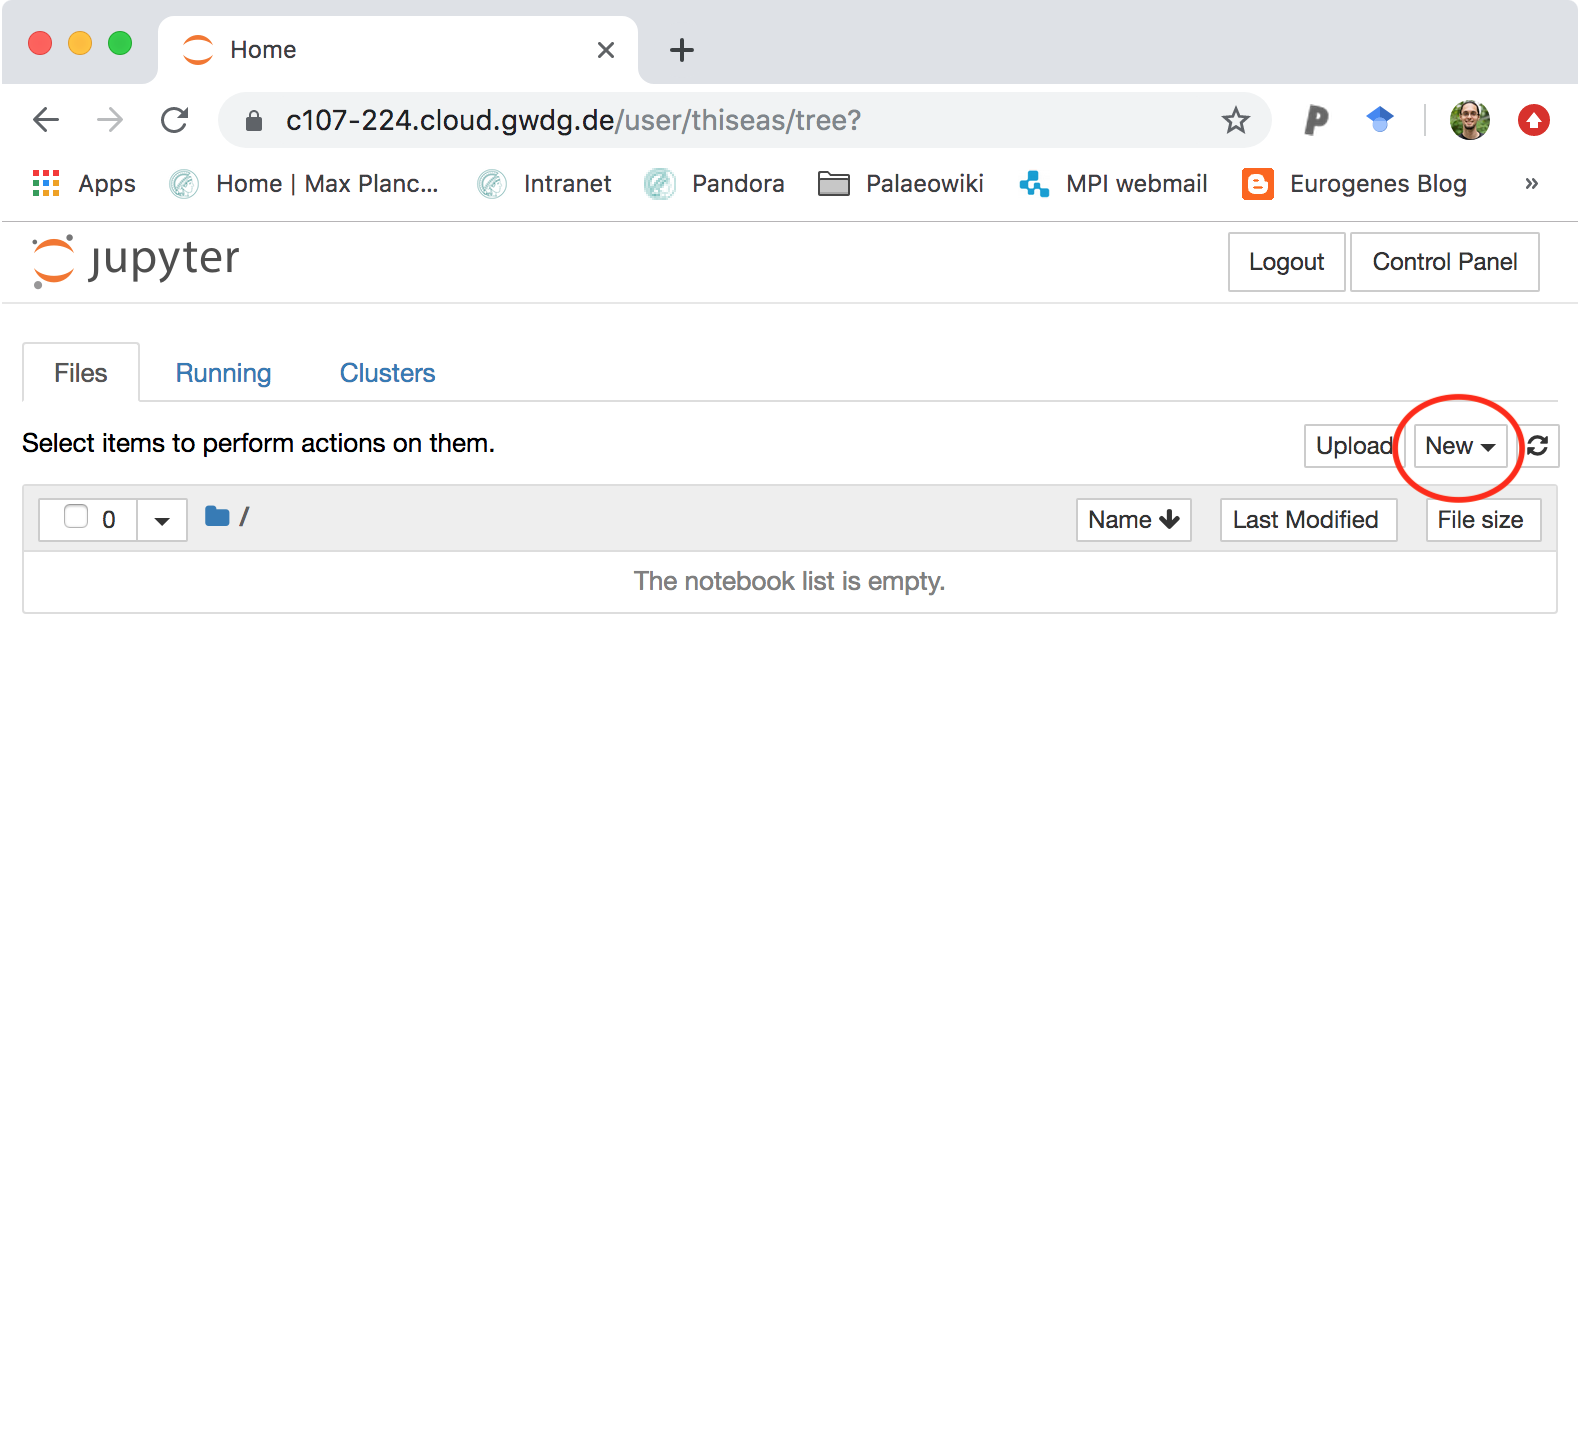
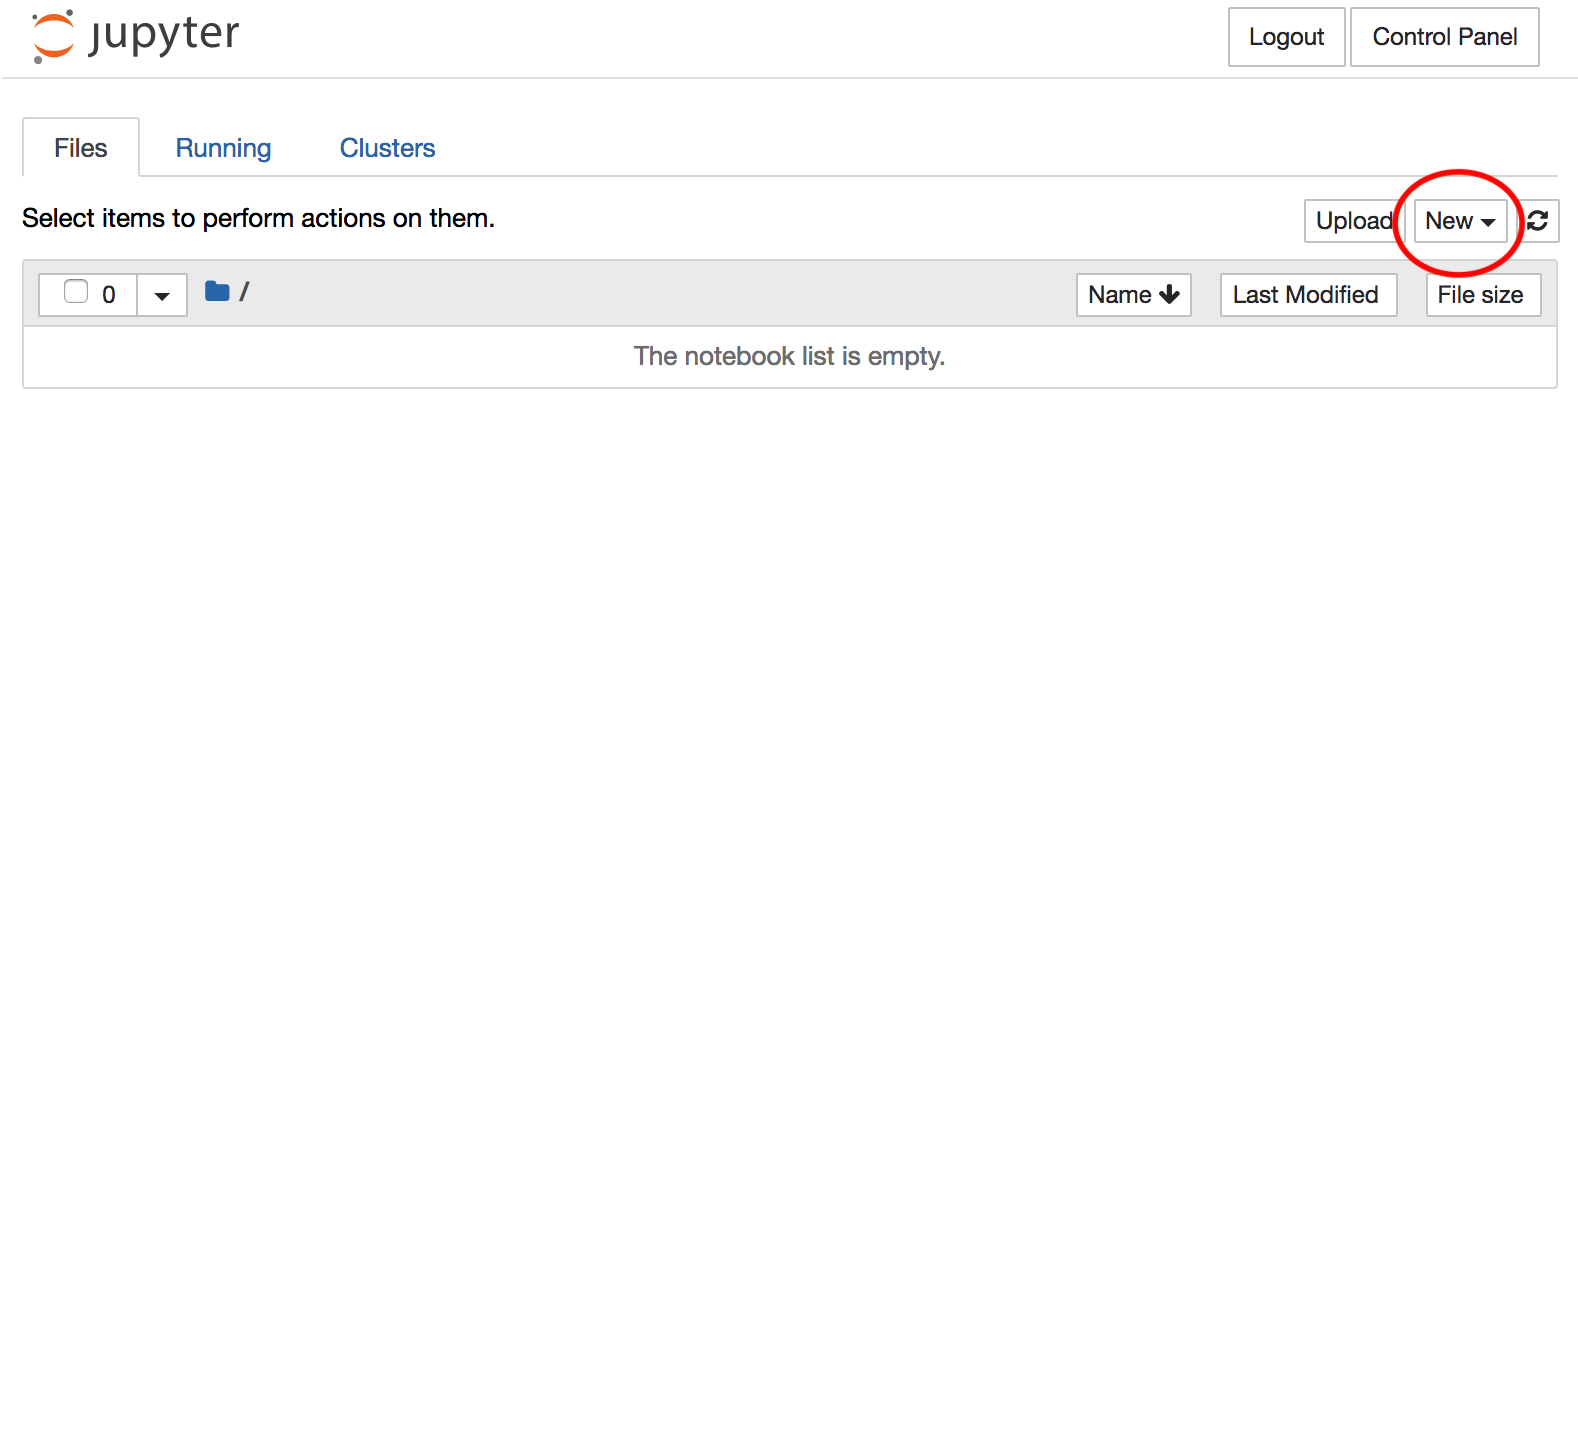
Deleted temporary server URL from slides

diff --git a/presentations/basic_barebonesbash.html b/presentations/basic_barebonesbash.html
@@ -223,7 +223,7 @@ class: middle
 # Connecting to our server
 
 
- * Go to https://c107-224.cloud.gwdg.de
+ * Go to the link provided, on your browser.
  * Log-in with the user and password we provided you. 
 
 ---
